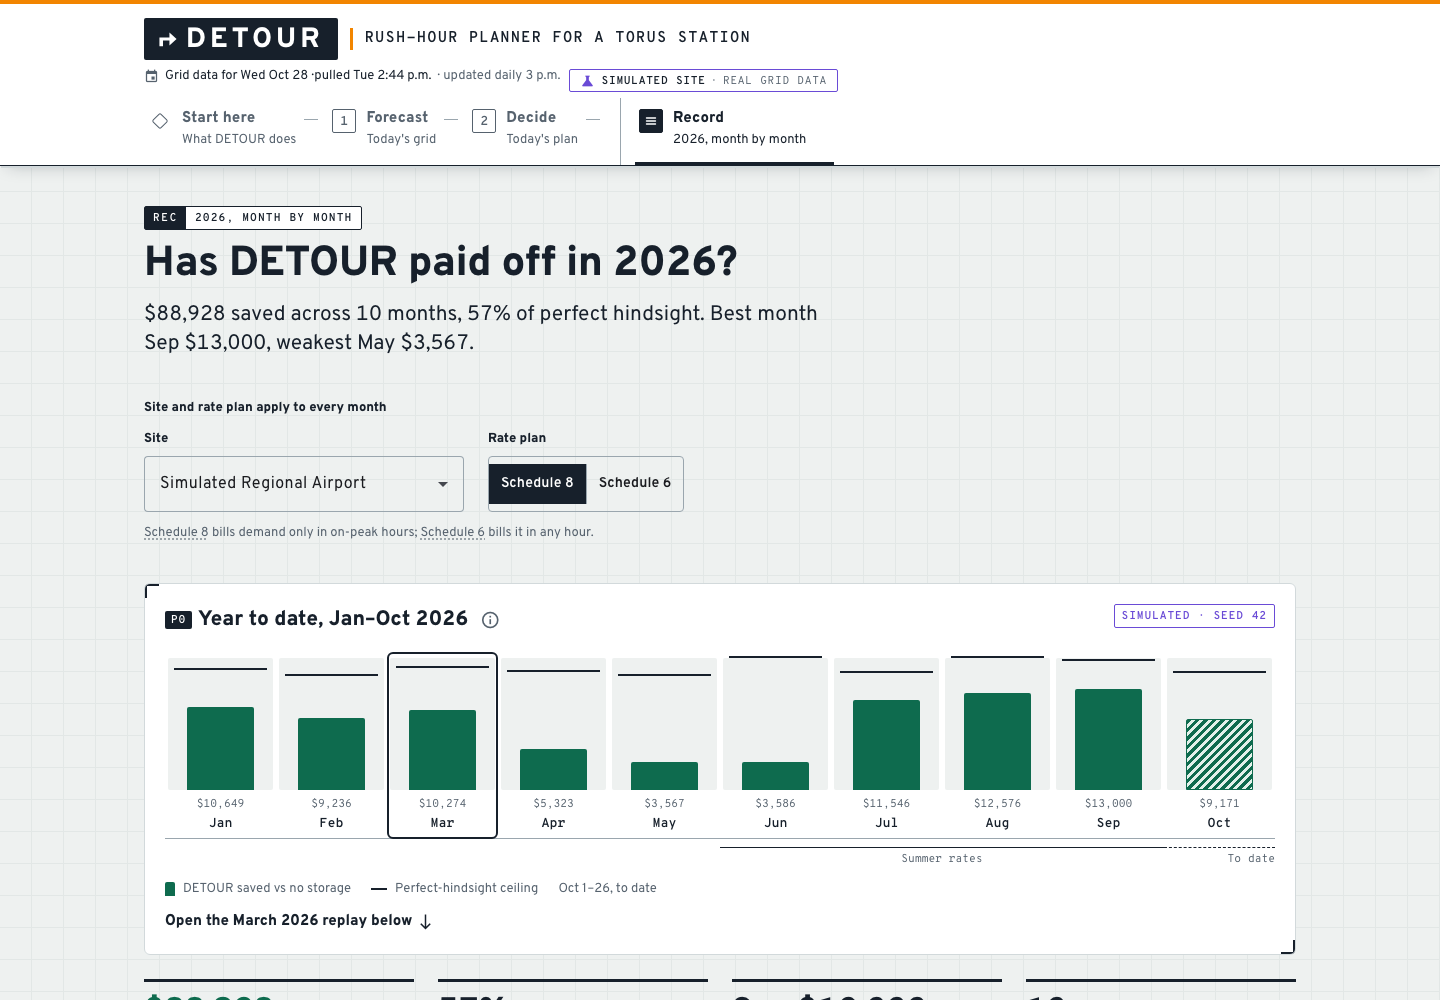
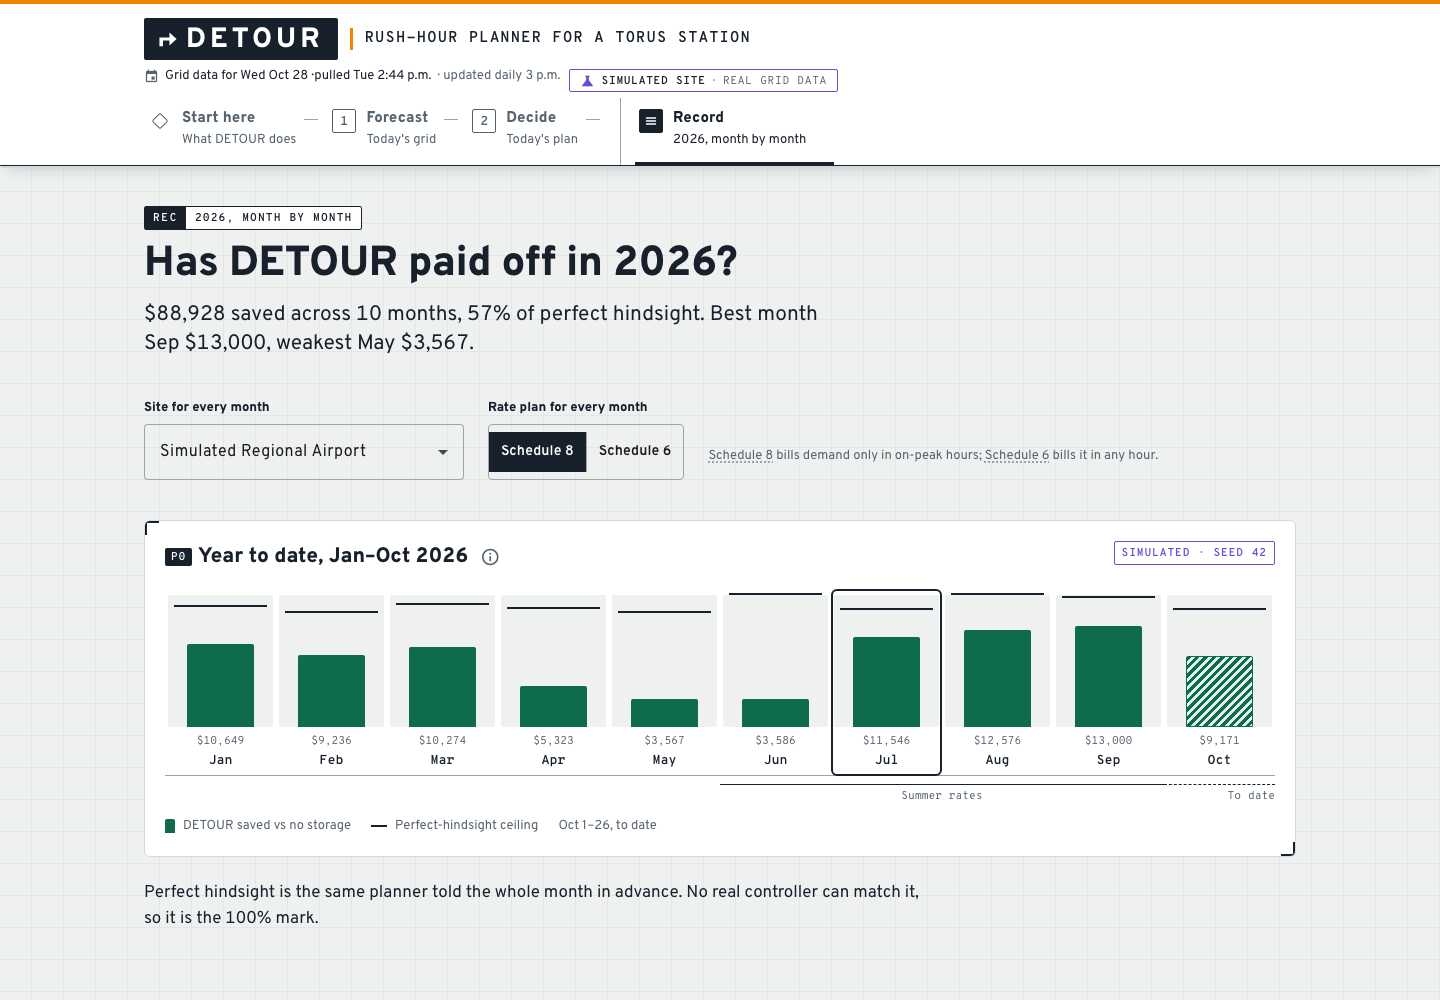
feat: Record puts the month picker first with the replay right under it

diff --git a/app/src/app/backtest/backtest.component.html b/app/src/app/backtest/backtest.component.html
@@ -17,9 +17,8 @@
 
   @if (controls$ | async; as controls) {
     <section class="dt-backtest__controls" aria-label="Site and rate plan">
-      <p class="dt-backtest__control-label dt-backtest__controls-title">Site and rate plan apply to every month</p>
       <div class="dt-backtest__control">
-        <span class="dt-backtest__control-label" id="backtest-site-label">Site</span>
+        <span class="dt-backtest__control-label" id="backtest-site-label">Site for every month</span>
         <mat-form-field appearance="outline" subscriptSizing="dynamic" class="dt-backtest__site">
           <mat-select aria-labelledby="backtest-site-label" [value]="controls.siteId" (selectionChange)="onSiteChange($event.value)">
             @for (site of sites; track site.id) {
@@ -29,7 +28,7 @@
         </mat-form-field>
       </div>
       <div class="dt-backtest__control">
-        <span class="dt-backtest__control-label" id="backtest-rate-label">Rate plan</span>
+        <span class="dt-backtest__control-label" id="backtest-rate-label">Rate plan for every month</span>
         <mat-button-toggle-group
           class="dt-backtest__schedule"
           aria-labelledby="backtest-rate-label"
@@ -62,22 +61,14 @@
         @if (screen.ledger.note) {
           <p class="dt-hint dt-backtest__ledger-note">{{ screen.ledger.note }}</p>
         }
-        @if (heading$ | async; as heading) {
-          <p class="dt-backtest__jump"><a href="#backtest-month" (click)="onJumpToMonth($event)">Open the {{ heading.monthLabel }} replay below <mat-icon aria-hidden="true">south</mat-icon></a></p>
-        }
         <div how-to-read>
           <p class="dt-backtest__how">Each column is a month of 2026. The green bar is what DETOUR saved on the bill versus no storage, and the dark tick above it is what perfect hindsight saved, so the gap is what a forecast cannot see.</p>
           <p class="dt-backtest__how">Summer rates (June to September) put a higher price on each kilowatt of peak demand, so a shaved kilowatt is worth more then. October is the month to date, so its demand charge is the peak so far.</p>
           <p class="dt-backtest__how">Pick any month to replay it below. The site and rate plan above apply to every column.</p>
         </div>
       </dt-chart-frame>
-      <div class="dt-figures">
-        @for (tile of screen.ledger.leadFigures; track tile.id) {
-          <dt-figure [value]="tile.value" [label]="tile.label" [detail]="tile.hint" [tone]="tile.tone"></dt-figure>
-        }
-      </div>
       @if (screen.ledger.leadFigures.length > 0) {
-        <p class="dt-section__lede">{{ screen.ledger.hindsightLine }}</p>
+        <p class="dt-section__lede dt-backtest__hindsight">{{ screen.ledger.hindsightLine }}</p>
       }
     </section>
   }
@@ -109,7 +100,7 @@
               }
             </p>
             <div class="dt-backtest__body" [class.dt-backtest__body--replaying]="viewModel.isReplaying" [attr.aria-busy]="viewModel.isReplaying">
-            <section class="dt-section dt-backtest__month" id="backtest-month" aria-labelledby="backtest-month-question">
+            <section class="dt-section" aria-labelledby="backtest-month-question">
               <h2 class="dt-section__title" id="backtest-month-question">{{ (heading$ | async)?.monthQuestion }}</h2>
               <p class="dt-section__lede">{{ model.answer }}</p>
             <section class="dt-backtest__verdict" aria-labelledby="backtest-capture-title">
@@ -504,6 +495,19 @@
           }
         }
       }
+    }
+  }
+
+  @if (ledger$ | async; as screen) {
+    @if (screen.ledger.leadFigures.length > 0) {
+      <section class="dt-section" aria-labelledby="backtest-year-title">
+        <h2 class="dt-section__title" id="backtest-year-title">The year in four numbers</h2>
+        <div class="dt-figures">
+          @for (tile of screen.ledger.leadFigures; track tile.id) {
+            <dt-figure [value]="tile.value" [label]="tile.label" [detail]="tile.hint" [tone]="tile.tone"></dt-figure>
+          }
+        </div>
+      </section>
     }
   }
 

diff --git a/app/src/app/backtest/backtest.component.ts b/app/src/app/backtest/backtest.component.ts
@@ -147,23 +147,11 @@ export class BacktestComponent {
   public readonly emptyMessage = backtestScreenSettings.EMPTY_MESSAGE;
 
   public onMonthSelected(month: string): void {
-    this.scrollToMonth();
     this._selectedDate$.next(null);
     this._month$.next(month);
     this._location.replaceState(
       this._router.createUrlTree([], { relativeTo: this._route, queryParams: { month }, queryParamsHandling: 'merge' }).toString()
     );
-  }
-
-  public onJumpToMonth(event: Event): void {
-    event.preventDefault();
-    this.scrollToMonth();
-  }
-
-  public scrollToMonth(): void {
-    const reduced = window.matchMedia('(prefers-reduced-motion: reduce)').matches;
-
-    document.getElementById('backtest-month')?.scrollIntoView({ behavior: reduced ? 'auto' : 'smooth', block: 'start' });
   }
 
   public onSiteChange(siteId: string): void {

diff --git a/app/src/app/backtest/backtest.component.scss b/app/src/app/backtest/backtest.component.scss
@@ -654,10 +654,6 @@
   min-width: 0;
 }
 
-.dt-backtest__controls-title {
-  flex-basis: 100%;
-  margin: 0;
-}
 
 .dt-page__step-number--record {
   letter-spacing: 0.14em;
@@ -690,25 +686,7 @@
   opacity: 0.55;
 }
 
-.dt-backtest__month {
-  scroll-margin-top: 190px;
-}
-
-.dt-backtest__jump {
-  margin: 12px 0 0;
-  font-size: var(--dt-text-15);
-  font-weight: 800;
-
-  a {
-    display: inline-flex;
-    align-items: center;
-    gap: 4px;
-    color: var(--dt-ink);
-  }
-
-  mat-icon {
-    width: 18px;
-    height: 18px;
-    font-size: 18px;
-  }
+.dt-backtest__control-hint {
+  flex: 1 1 260px;
+  margin: 0 0 14px;
 }
